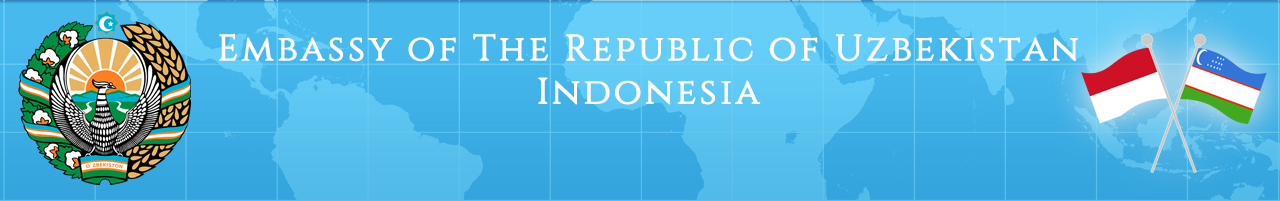
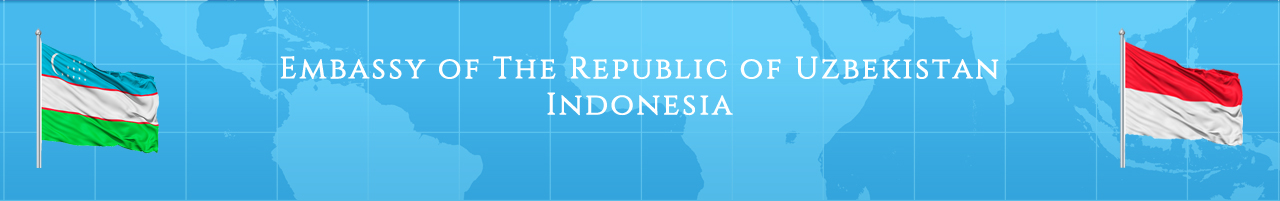
Gallery by status view

Changed region(s): [[0.0, 0.0597, 1.0, 0.9254]]

diff --git a/app/view/home.html b/app/view/home.html
@@ -38,7 +38,7 @@
                 <div class="item">
                 {/if}
                 
-                  <img src="{$basedomain}public_assets/gallery/images/{$getNewestPhoto.content}" class="img-responsive" style="height: 155px;">
+                  <a href="{$basedomain}media/viewAlbum/?id={$getNewestPhoto.id}"><img src="{$getNewestPhoto.file}" class="img-responsive" style="height: 155px;"></a>
                 </div>
                 {/foreach}
                 </div>

diff --git a/app/view/template/header.html b/app/view/template/header.html
@@ -1,5 +1,5 @@
 <div class="uzbek-header">
-    <img src="{$basedomain}assets/img/desain.jpg">
+    <img src="{$basedomain}assets/img/header.jpg">
     <div class="uzbek-language">
 	    
 	    <form method="POST" action="{$basedomain}home/lang" style="float:left;">

diff --git a/assets/css/custom-uzbek.css b/assets/css/custom-uzbek.css
@@ -306,4 +306,11 @@ footer{
     background-color: #EEE;
 }
 
+.carousel-inner .item{
+    background-color: #FFF;
+}
+.carousel-inner .item img{
+    margin: 0 auto;
+}
+
 /* 24a5cfvideo 4bd0edborderh3 056285readmore 0450a6title b47702date */

diff --git a/app/model/contentHelper.php b/app/model/contentHelper.php
@@ -83,7 +83,7 @@ class contentHelper extends Database {
 	** Get newest photo content
 	**/
 	function getNewestPhoto(){
-		$sql = "SELECT * FROM {$this->prefix}_news_content_repo ORDER BY id DESC LIMIT 5;";
+		$sql = "SELECT * FROM {$this->prefix}_news_content WHERE categoryid=9 AND n_status=0 ORDER BY id DESC LIMIT 5;";
 		//pr($sql);exit;
 		$res = $this->fetch($sql,1);
 		if ($res) return $res;
@@ -105,7 +105,7 @@ class contentHelper extends Database {
 	** Get album content
 	**/
 	function getAlbum(){
-		$sql = "SELECT * FROM {$this->prefix}_news_content WHERE categoryid = 9";
+		$sql = "SELECT * FROM {$this->prefix}_news_content WHERE categoryid = 9 AND n_status=0";
 		//pr($sql);exit;
 		$res = $this->fetch($sql,1);
 		if ($res) return $res;
